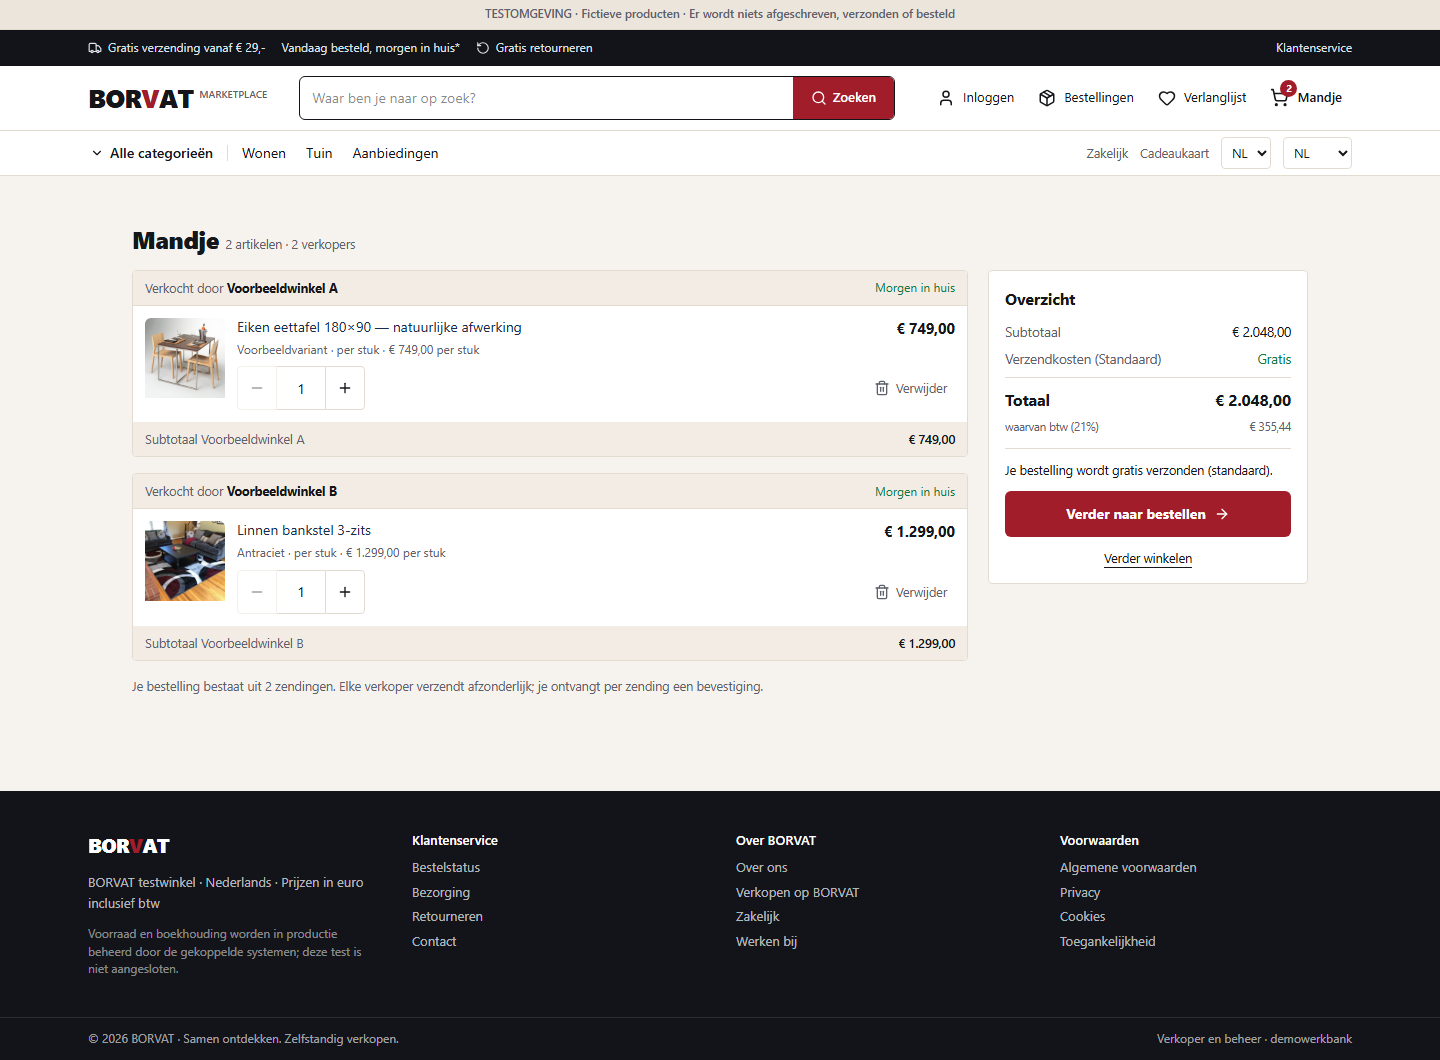
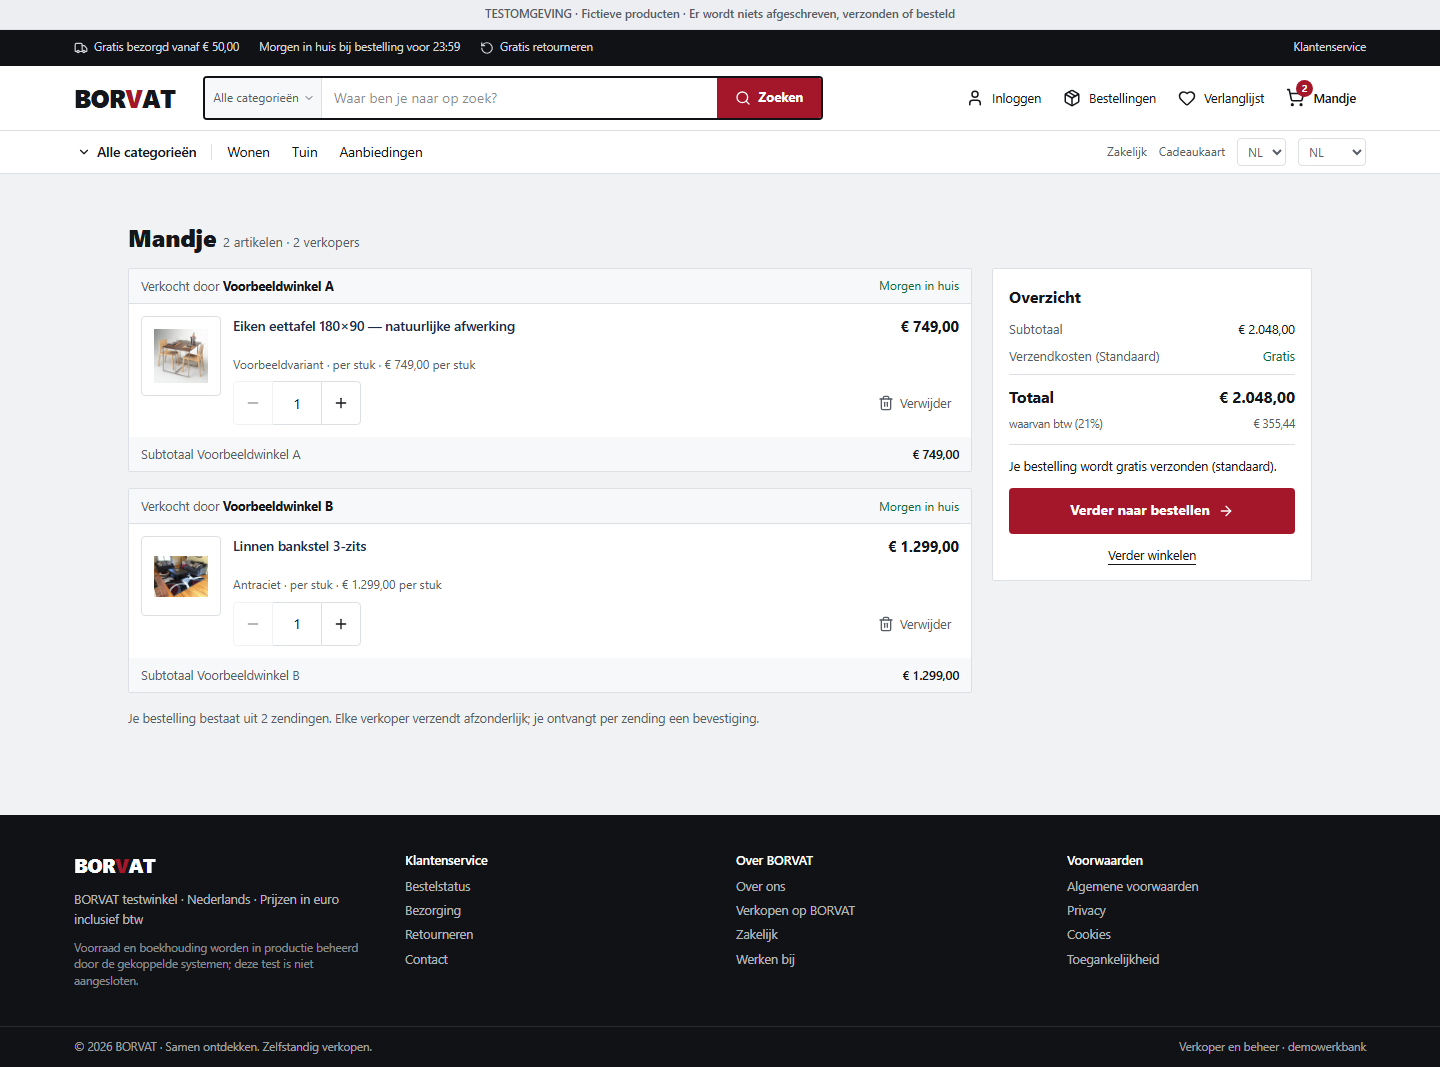
docs(design): v4 delivery pack — captures, reference comparison, functional and gate evidence

diff --git a/docs/design/DELIVERY-MARKETPLACE-V4.md b/docs/design/DELIVERY-MARKETPLACE-V4.md
@@ -1,0 +1,97 @@
+# BORVAT Marketplace v4 — bol.com-grade retail, implemented (2026-11-03)
+
+Branch `design/marketplace-v4-bol`, cut from `design/marketplace-v3-atelier`.
+Working storefront in the real app: routes, adapters, pricing, inventory and auth untouched.
+Nothing merged, deployed or spent.
+
+## What was rebuilt
+
+**Header — three tiers, like the reference.** Service strip (free delivery threshold taken from
+`SHIPPING_METHODS`, not invented), then the search-first bar with a category scope control, account,
+orders, wishlist and cart with a live count, then the category row with `Alle categorieën`, the two
+live categories and `Aanbiedingen`, with `Zakelijk · Cadeaukaart · NL/BE · taal` on the right.
+
+**Homepage — merchandising, not a hero.** A static, server-rendered hero tile (fixed height at both
+breakpoints), four tiles beside it, a trust band, then two dense rows of four cards and a category
+strip with real counts. Every card carries category, title, offer count, price, delivery and seller.
+
+**Listing — facet rail and a result bar.** Breadcrumb, `h1`, intro, 236px facet column (category with
+counts, price range, availability), active-filter chips, result count, sort, and a 2/3/4-column grid.
+Filters and search operate on the existing selector; nothing is decorative.
+
+**Product page — a purchase decision.** Gallery plate, title, price with VAT line, availability,
+delivery, a **seller comparison table** (seller · price · stock, radio selection that re-prices the
+page), quantity, CTA, delivery/returns block, specification grid, and a related-products row built
+from the same category.
+
+**Cart — multi-vendor.** Lines grouped per seller with a per-seller subtotal, one order summary
+(subtotal, shipping, VAT, total) computed by `orderTotals`, a split-shipment note, and a reconciliation
+line that stays silent unless the seller subtotals and the order subtotal diverge.
+
+## Comparison with the reference
+
+| Area | bol.com pattern | BORVAT v4 |
+|---|---|---|
+| Header | service strip → search bar → category row | same three tiers, oxblood accent, category scope in the search field |
+| Density | 4-column grid, price/delivery on the card | same density, offer count and seller added to every card |
+| Facets | collapsible groups with counts | category with counts, price range, availability; chips for active filters |
+| Product page | gallery, buy box, seller block, specs | gallery, buy box, **seller comparison table with stock**, specs, related row |
+| Cart | grouped delivery, totals | grouped **per seller with per-seller subtotal**, one reconciled order total |
+| Trust | delivery and returns messaging | same, with the shipping threshold read from the pricing model |
+
+## What we add beyond the reference
+
+1. **Seller comparison by price and stock** in one table on the product page, with the page re-pricing
+   on selection.
+2. **Per-seller subtotals in the cart**, plus an explicit reconciliation check between those subtotals
+   and the order total.
+3. **Related products** chosen deterministically from the same category — no model calls, no guessing.
+4. **No invented discounts.** The cross-seller price spread is shown as an offer count, never as a
+   markdown; a `-x%` badge appears only when a real reference price exists in the data.
+5. **Language switch in the header** (NL / EN / AR) wired to the existing copy layer.
+
+## Evidence
+
+Screenshots at 1440 and 390 in `docs/design/visual/v4/`: `v4-home-*`, `v4-category-*`, `v4-pdp-*`,
+plus `v4-cart-*` captured from a two-seller session.
+
+Functional checks on this build:
+
+| Check | Result |
+|---|---|
+| Two sellers in one cart | 2 groups, per-seller subtotals € 749,00 and € 3.897,00 |
+| Order arithmetic | group sum € 4.646,00 = order subtotal = total; no warning rendered |
+| Seller switching on the product page | selection re-prices and re-stocks the buy box |
+| Search and facets | `?q=` and `?category=` both filter the grid and render chips |
+| Mobile 390 | no horizontal overflow on home, listing, product, cart |
+| Console | no application errors |
+
+Engineering gate: `vlab gate --config gate.config.borvat-storefront.json` →
+**DEMO READY (production stages excluded by scope)**. Stage 1 clean, 2: 27/27, 3: 2/2 E2E,
+3.1 axe zero, 3.2 **LCP 1471 ms · CLS 0.009 · TBT 90 ms**, 4: seven `info`-only findings.
+Report: `out/gate-borvat-storefront-2026-11-03T03-13-32-130Z.json`.
+
+During this round the gate caught two real defects that a screenshot would not: the homepage had lost
+its `h1` (E2E failed on heading count) and the hero was mounted after the catalogue resolved, which
+cost **CLS 0.131 and LCP 2.4 s**. The hero is now static, fixed-height and preloaded.
+
+## Remaining gaps
+
+1. **Two photos do not represent their article**: the wool rug is a museum carpet and the pine cabinet
+   is a dark antique cupboard. Wikimedia Commons has no clean studio shot for either; supplier media
+   or one photo day closes it.
+2. **Shipping is one model per order.** The pricing layer has no per-seller shipping rules, so the cart
+   shows one shipping line and states that the order may split. Per-seller shipping costs are not
+   invented.
+3. **No review data** in the fixtures, so no ratings are rendered anywhere.
+4. **Checkout is the existing test checkout**, untouched by this branch.
+5. **Nine articles, two categories**, no pagination — enough to judge the system, not an assortment.
+6. Search suggestions are deterministic substring matches, not a ranking service.
+
+## Preview
+
+`http://127.0.0.1:4173` while the WSL build server runs:
+
+```bash
+wsl -d Ubuntu -- bash -c 'cd ~/dsgn/apps/marketplace && PORT=4173 node .output/server/index.mjs'
+```
